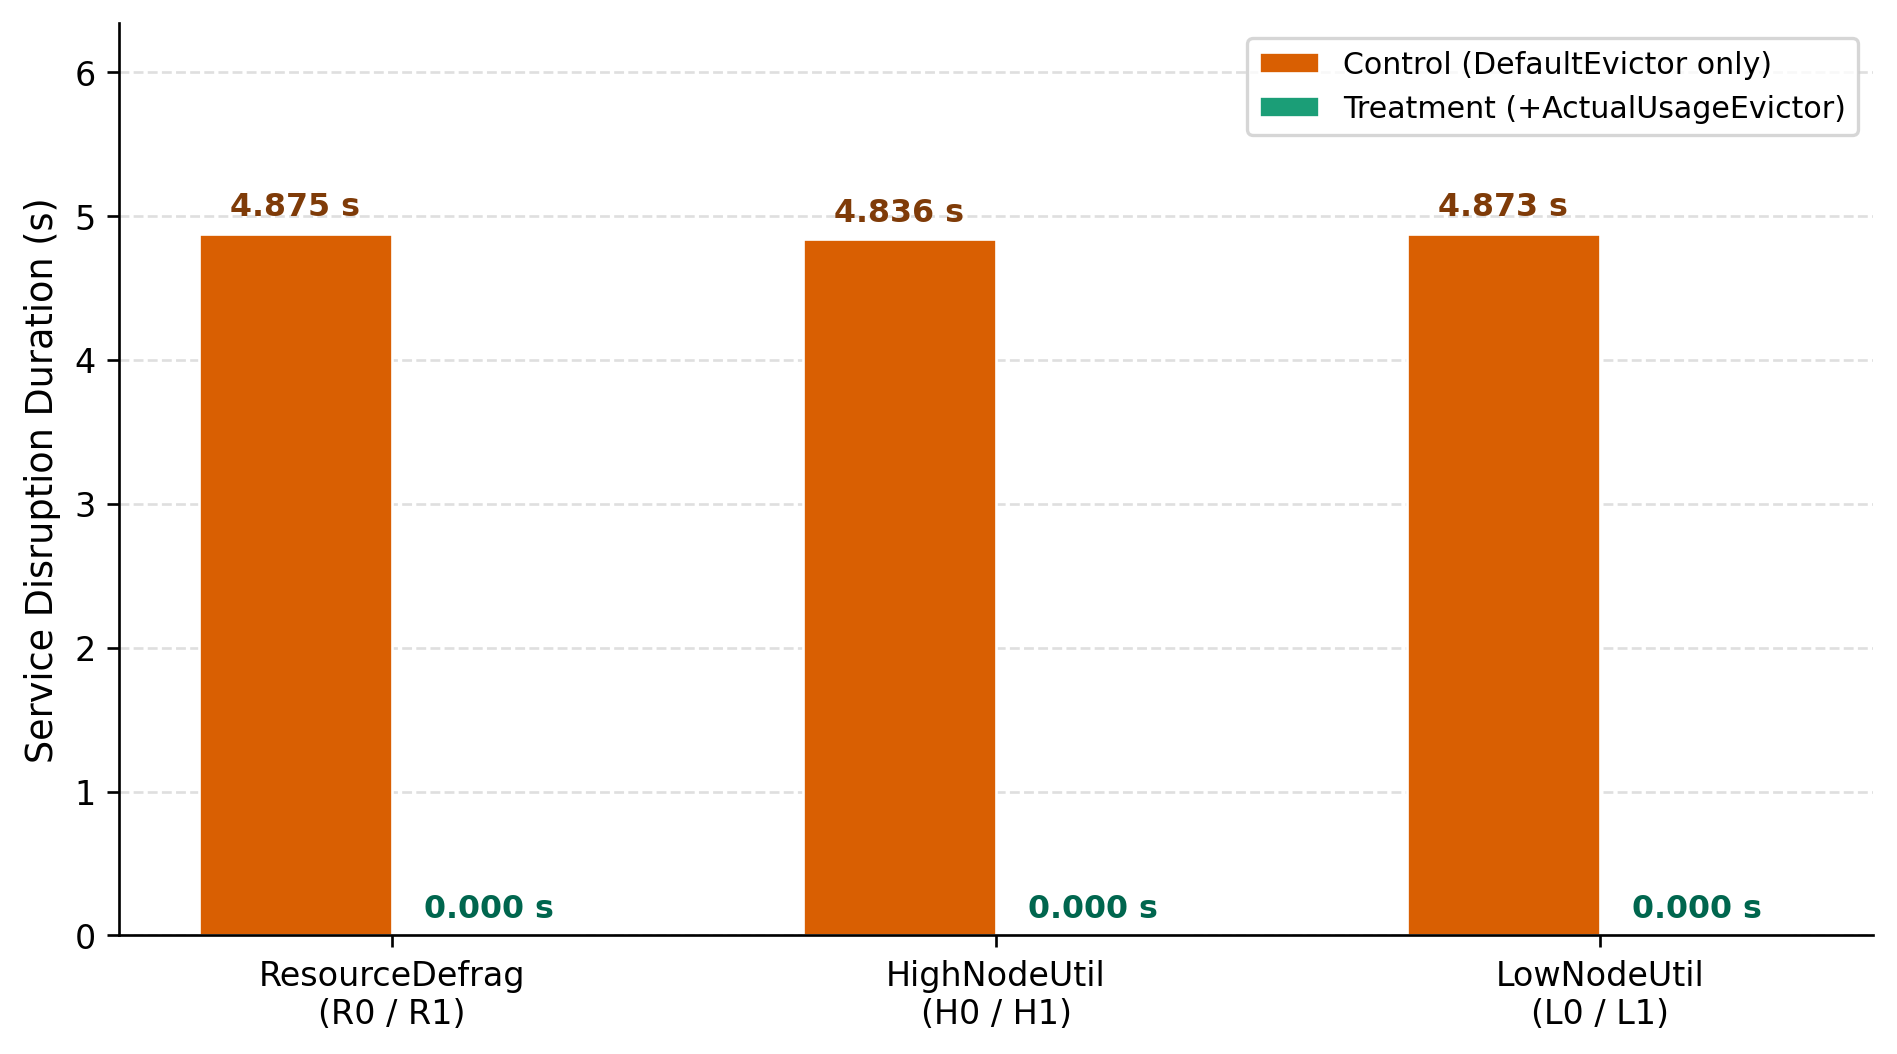
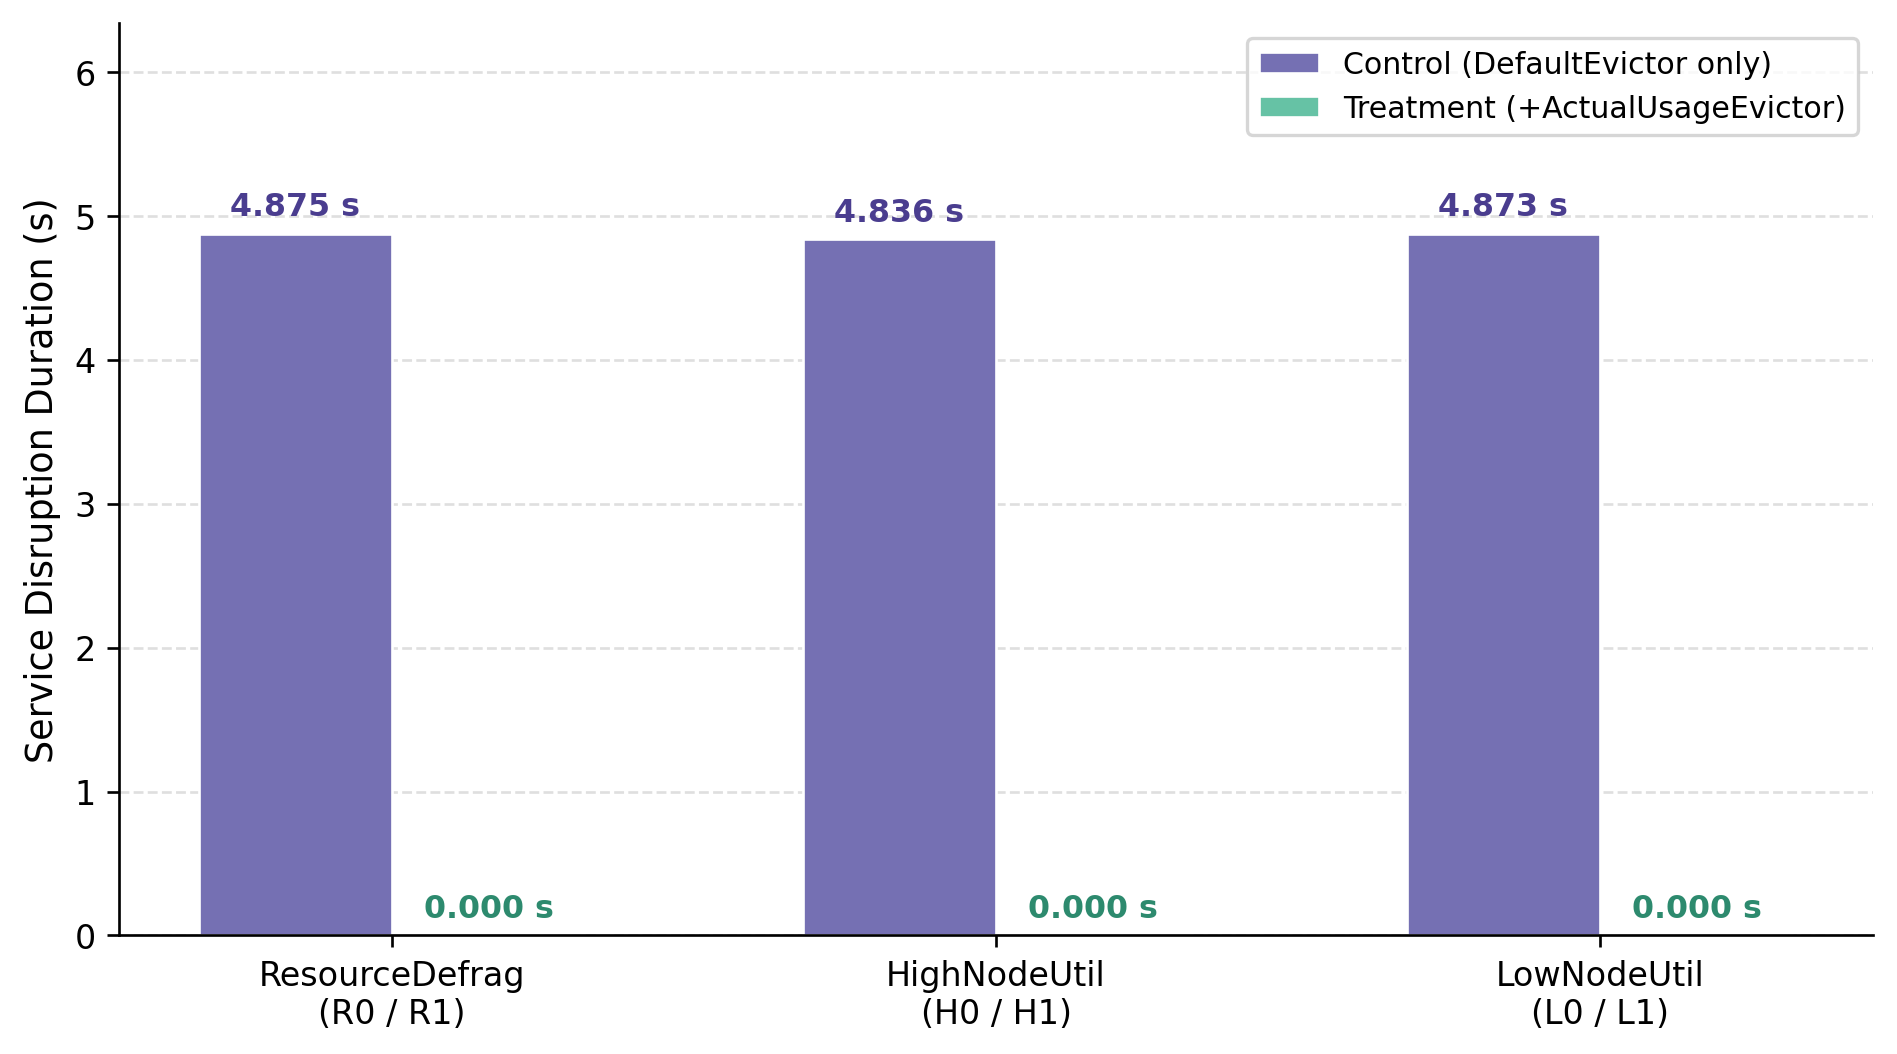
disruption bar: switch to purple/mint for clearer contrast
Purple (#7570b3) for control vs mint (#66c2a5) for treatment,
clearly distinct from the red/green failure rate chart.

diff --git a/scripts/generate_actual_usage_disruption_bar.py b/scripts/generate_actual_usage_disruption_bar.py
@@ -101,7 +101,7 @@ def main() -> None:
         control_durations,
         width,
         label="Control (DefaultEvictor only)",
-        color="#d95f02",
+        color="#7570b3",
         edgecolor="white",
         linewidth=0.8,
     )
@@ -110,7 +110,7 @@ def main() -> None:
         treatment_durations,
         width,
         label="Treatment (+ActualUsageEvictor)",
-        color="#1b9e77",
+        color="#66c2a5",
         edgecolor="white",
         linewidth=0.8,
     )
@@ -126,7 +126,7 @@ def main() -> None:
             va="bottom",
             fontsize=9.5,
             fontweight="bold",
-            color="#7f3b08",
+            color="#4a3d8f",
         )
 
     for bar, (_, treat_name) in zip(bars_treat, pairs):
@@ -139,7 +139,7 @@ def main() -> None:
             va="bottom",
             fontsize=9.5,
             fontweight="bold",
-            color="#00664e",
+            color="#2d8a6e",
         )
 
     ax.set_ylabel("Service Disruption Duration (s)", fontsize=11)